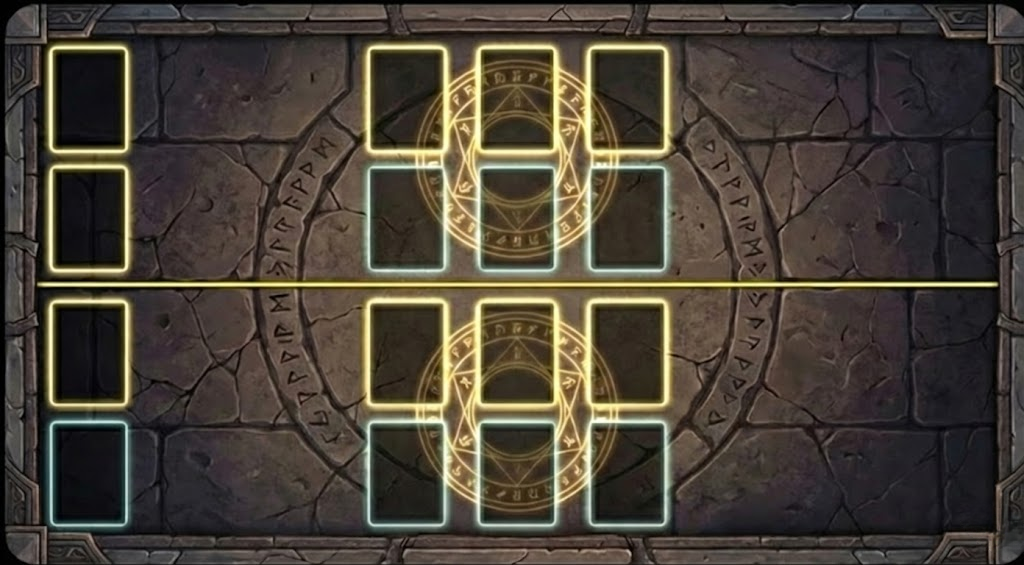
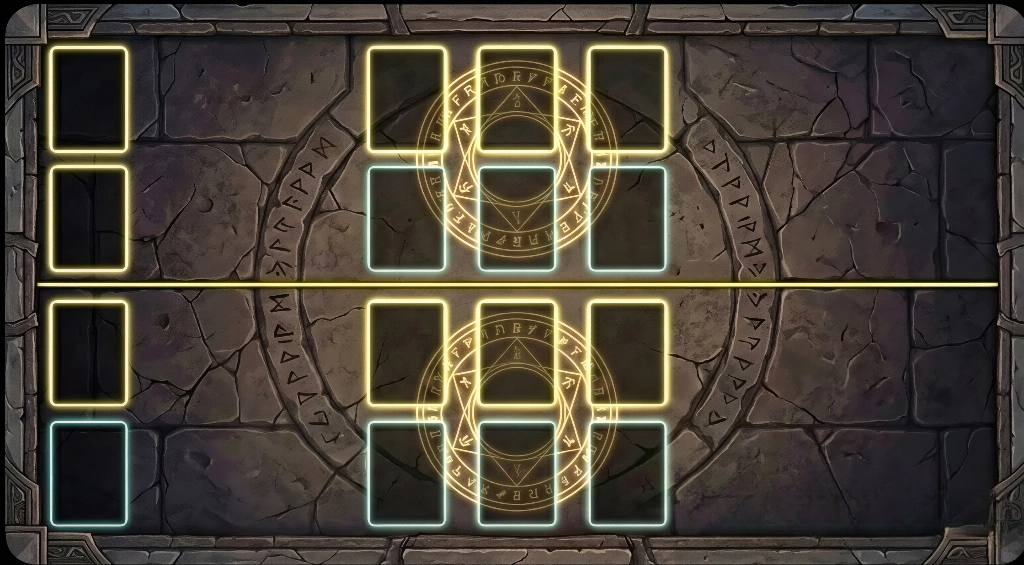
feat: update quality of battle scene image and update phaseTextBg alpha to 1

diff --git a/src/managers/PhaseManager.ts b/src/managers/PhaseManager.ts
@@ -13,7 +13,7 @@ export class PhaseManager {
 
     this.scene.tweens.killTweensOf([phaseText, phaseTextBg]);
     phaseText.setVisible(true).setAlpha(1);
-    phaseTextBg.setVisible(true).setAlpha(0.8);
+    phaseTextBg.setVisible(true).setAlpha(1);
 
     switch (phase) {
       case "DRAW":
